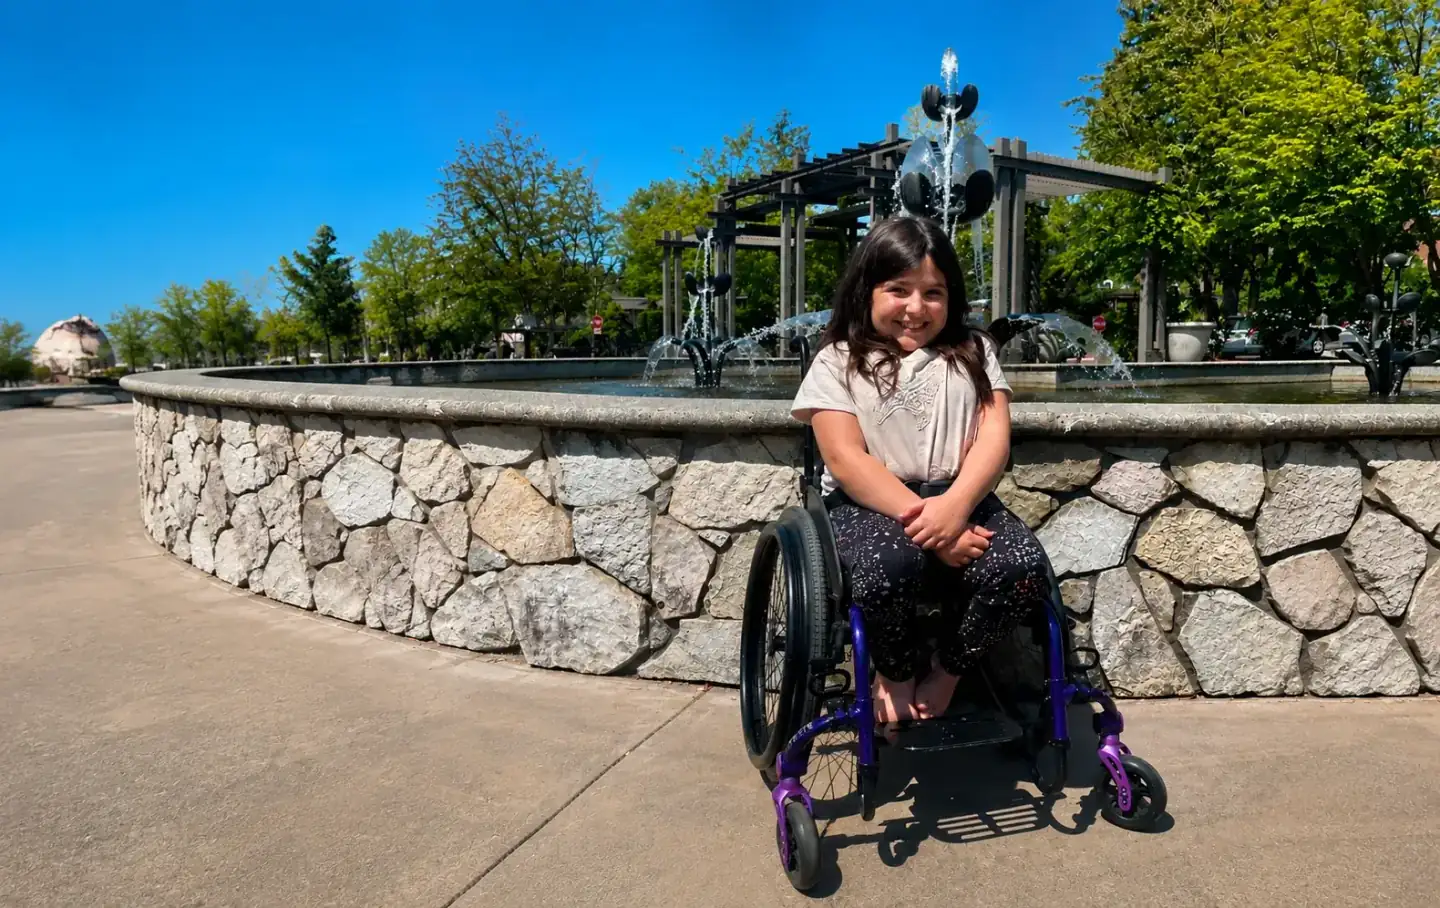
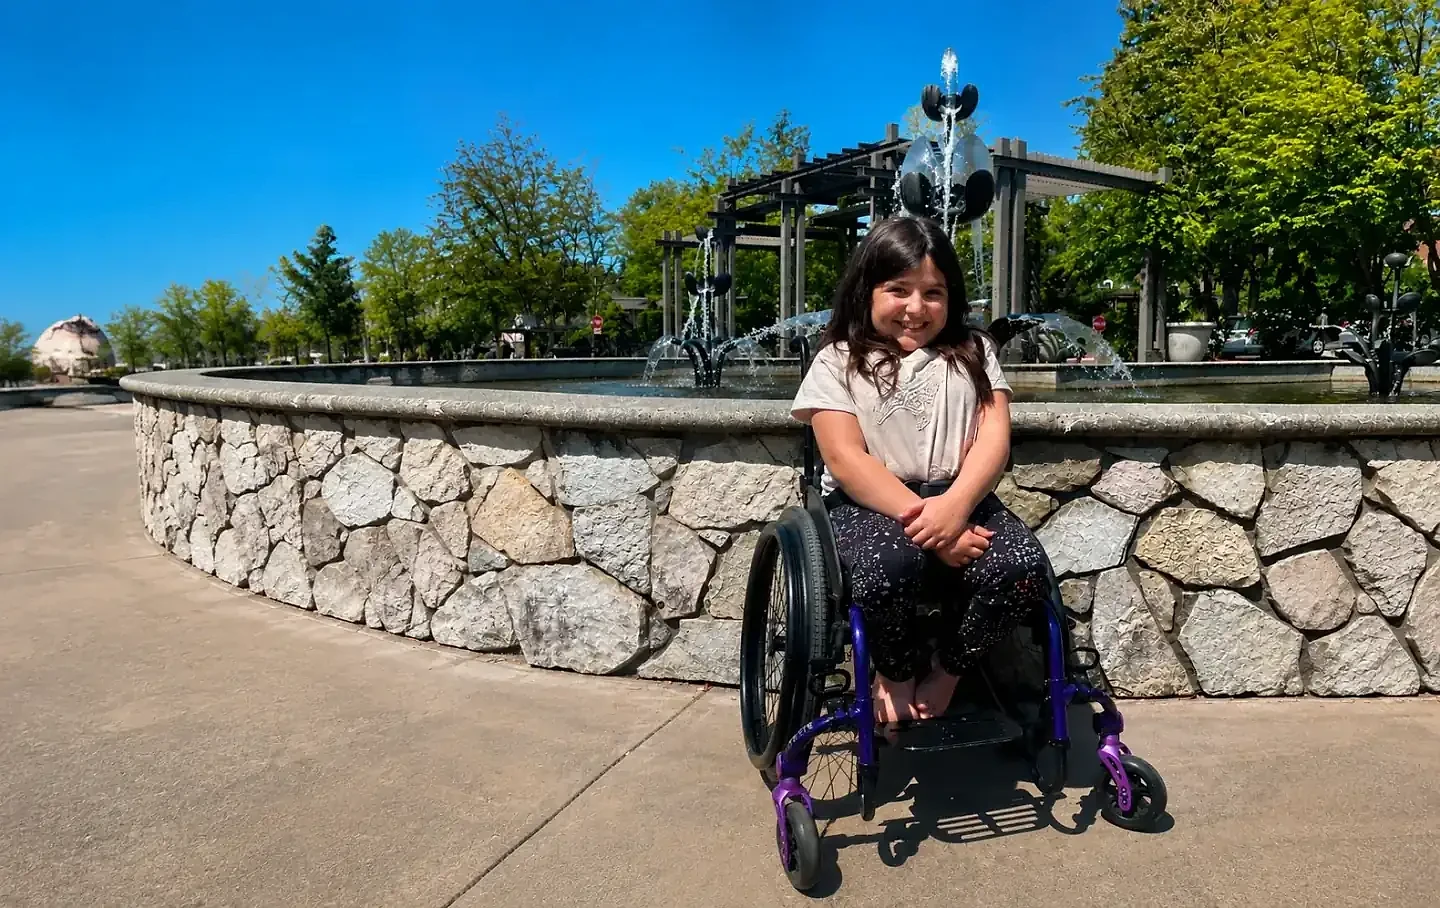
Sharpen the homepage hero image.
Remove the soft ribbon overlays, lighten the scrim, and ship higher-quality hero WebPs so the photo no longer looks blurred.

diff --git a/src/pages/HomePage.tsx b/src/pages/HomePage.tsx
@@ -15,8 +15,8 @@ import AnimatedText, { FadeIn } from "../components/motion/AnimatedText";
 import ScrollColorWords from "../components/motion/ScrollColorWords";
 import { TestimonialCard } from "../components/TestimonialCard";
 
-const HERO_MOBILE = "/hero-mobile.webp";
-const HERO_DESKTOP = "/hero-desktop.webp";
+const HERO_MOBILE = "/hero-mobile.webp?v=2";
+const HERO_DESKTOP = "/hero-desktop.webp?v=2";
 
 function avatarDataUri(initials: string, color: string) {
   const svg = `<svg xmlns="http://www.w3.org/2000/svg" width="128" height="128" viewBox="0 0 128 128"><rect width="128" height="128" fill="${color}"/><text x="64" y="72" text-anchor="middle" font-family="system-ui,sans-serif" font-size="44" font-weight="700" fill="#fff">${initials}</text></svg>`;
@@ -397,43 +397,27 @@ export default function HomePage() {
     <>
       <div className="relative min-h-screen min-h-[100dvh] overflow-hidden selection:bg-purple-100 font-sans flex flex-col">
         <Header variant="light" />
-        {/* Background Hero Image with Vertical Ribbon Effect */}
+        {/* Background Hero Image */}
         <div className="absolute inset-0 z-0 overflow-hidden">
           <picture>
             <source media="(min-width: 768px)" srcSet={HERO_DESKTOP} type="image/webp" />
             <img
               src={HERO_MOBILE}
               alt="Young girl smiling in a wheelchair by a fountain"
-              width={768}
-              height={484}
+              width={1080}
+              height={680}
               decoding="async"
               fetchPriority="high"
-              className="w-full h-full object-cover object-[center_40%]"
+              className="w-full h-full object-cover object-[center_40%] [image-rendering:auto]"
             />
           </picture>
-          {/* Static ribbon strips — avoid backdrop-filter (main-thread / compositor cost) */}
-          <div className="absolute inset-0 flex pointer-events-none" aria-hidden>
-            {[...Array(8)].map((_, i) => (
-              <div
-                key={i}
-                className="h-full flex-1 border-r border-white/5"
-                style={{
-                  backgroundColor:
-                    i % 3 === 0
-                      ? "rgba(255, 255, 255, 0.05)"
-                      : i % 2 === 0
-                        ? "rgba(0, 0, 0, 0.04)"
-                        : "transparent",
-                }}
-              />
-            ))}
-          </div>
+          {/* Soft readability scrim only — no ribbon blur overlays */}
           <div
             aria-hidden
-            className="absolute inset-y-0 left-0 w-[60%] pointer-events-none"
+            className="absolute inset-y-0 left-0 w-[58%] pointer-events-none"
             style={{
               background:
-                "linear-gradient(to right, rgba(0,0,0,0.48) 0%, rgba(0,0,0,0.28) 55%, rgba(0,0,0,0.08) 80%, transparent 100%)",
+                "linear-gradient(to right, rgba(0,0,0,0.42) 0%, rgba(0,0,0,0.22) 52%, rgba(0,0,0,0.06) 78%, transparent 100%)",
             }}
           />
         </div>

diff --git a/index.html b/index.html
@@ -19,7 +19,7 @@
   <link
     rel="preload"
     as="image"
-    href="/hero-mobile.webp"
+    href="/hero-mobile.webp?v=2"
     type="image/webp"
     media="(max-width: 767px)"
     fetchpriority="high"
@@ -27,7 +27,7 @@
   <link
     rel="preload"
     as="image"
-    href="/hero-desktop.webp"
+    href="/hero-desktop.webp?v=2"
     type="image/webp"
     media="(min-width: 768px)"
     fetchpriority="high"
@@ -62,8 +62,8 @@
       content: "";
       position: absolute;
       inset: 0;
-      background: linear-gradient(to right, rgba(0,0,0,0.55) 0%, rgba(0,0,0,0.28) 58%, rgba(0,0,0,0.08) 82%, transparent 100%);
-      width: 60%;
+      background: linear-gradient(to right, rgba(0,0,0,0.42) 0%, rgba(0,0,0,0.22) 52%, rgba(0,0,0,0.06) 78%, transparent 100%);
+      width: 58%;
     }
     #root { position: relative; z-index: 1; min-height: 100dvh; background: #ffffff; }
   </style>
@@ -72,12 +72,12 @@
 <body>
   <div id="boot-hero" aria-hidden="true">
     <picture>
-      <source media="(min-width: 768px)" srcset="/hero-desktop.webp" type="image/webp" />
+      <source media="(min-width: 768px)" srcset="/hero-desktop.webp?v=2" type="image/webp" />
       <img
-        src="/hero-mobile.webp"
+        src="/hero-mobile.webp?v=2"
         alt=""
-        width="768"
-        height="484"
+        width="1200"
+        height="756"
         fetchpriority="high"
         decoding="async"
       />
